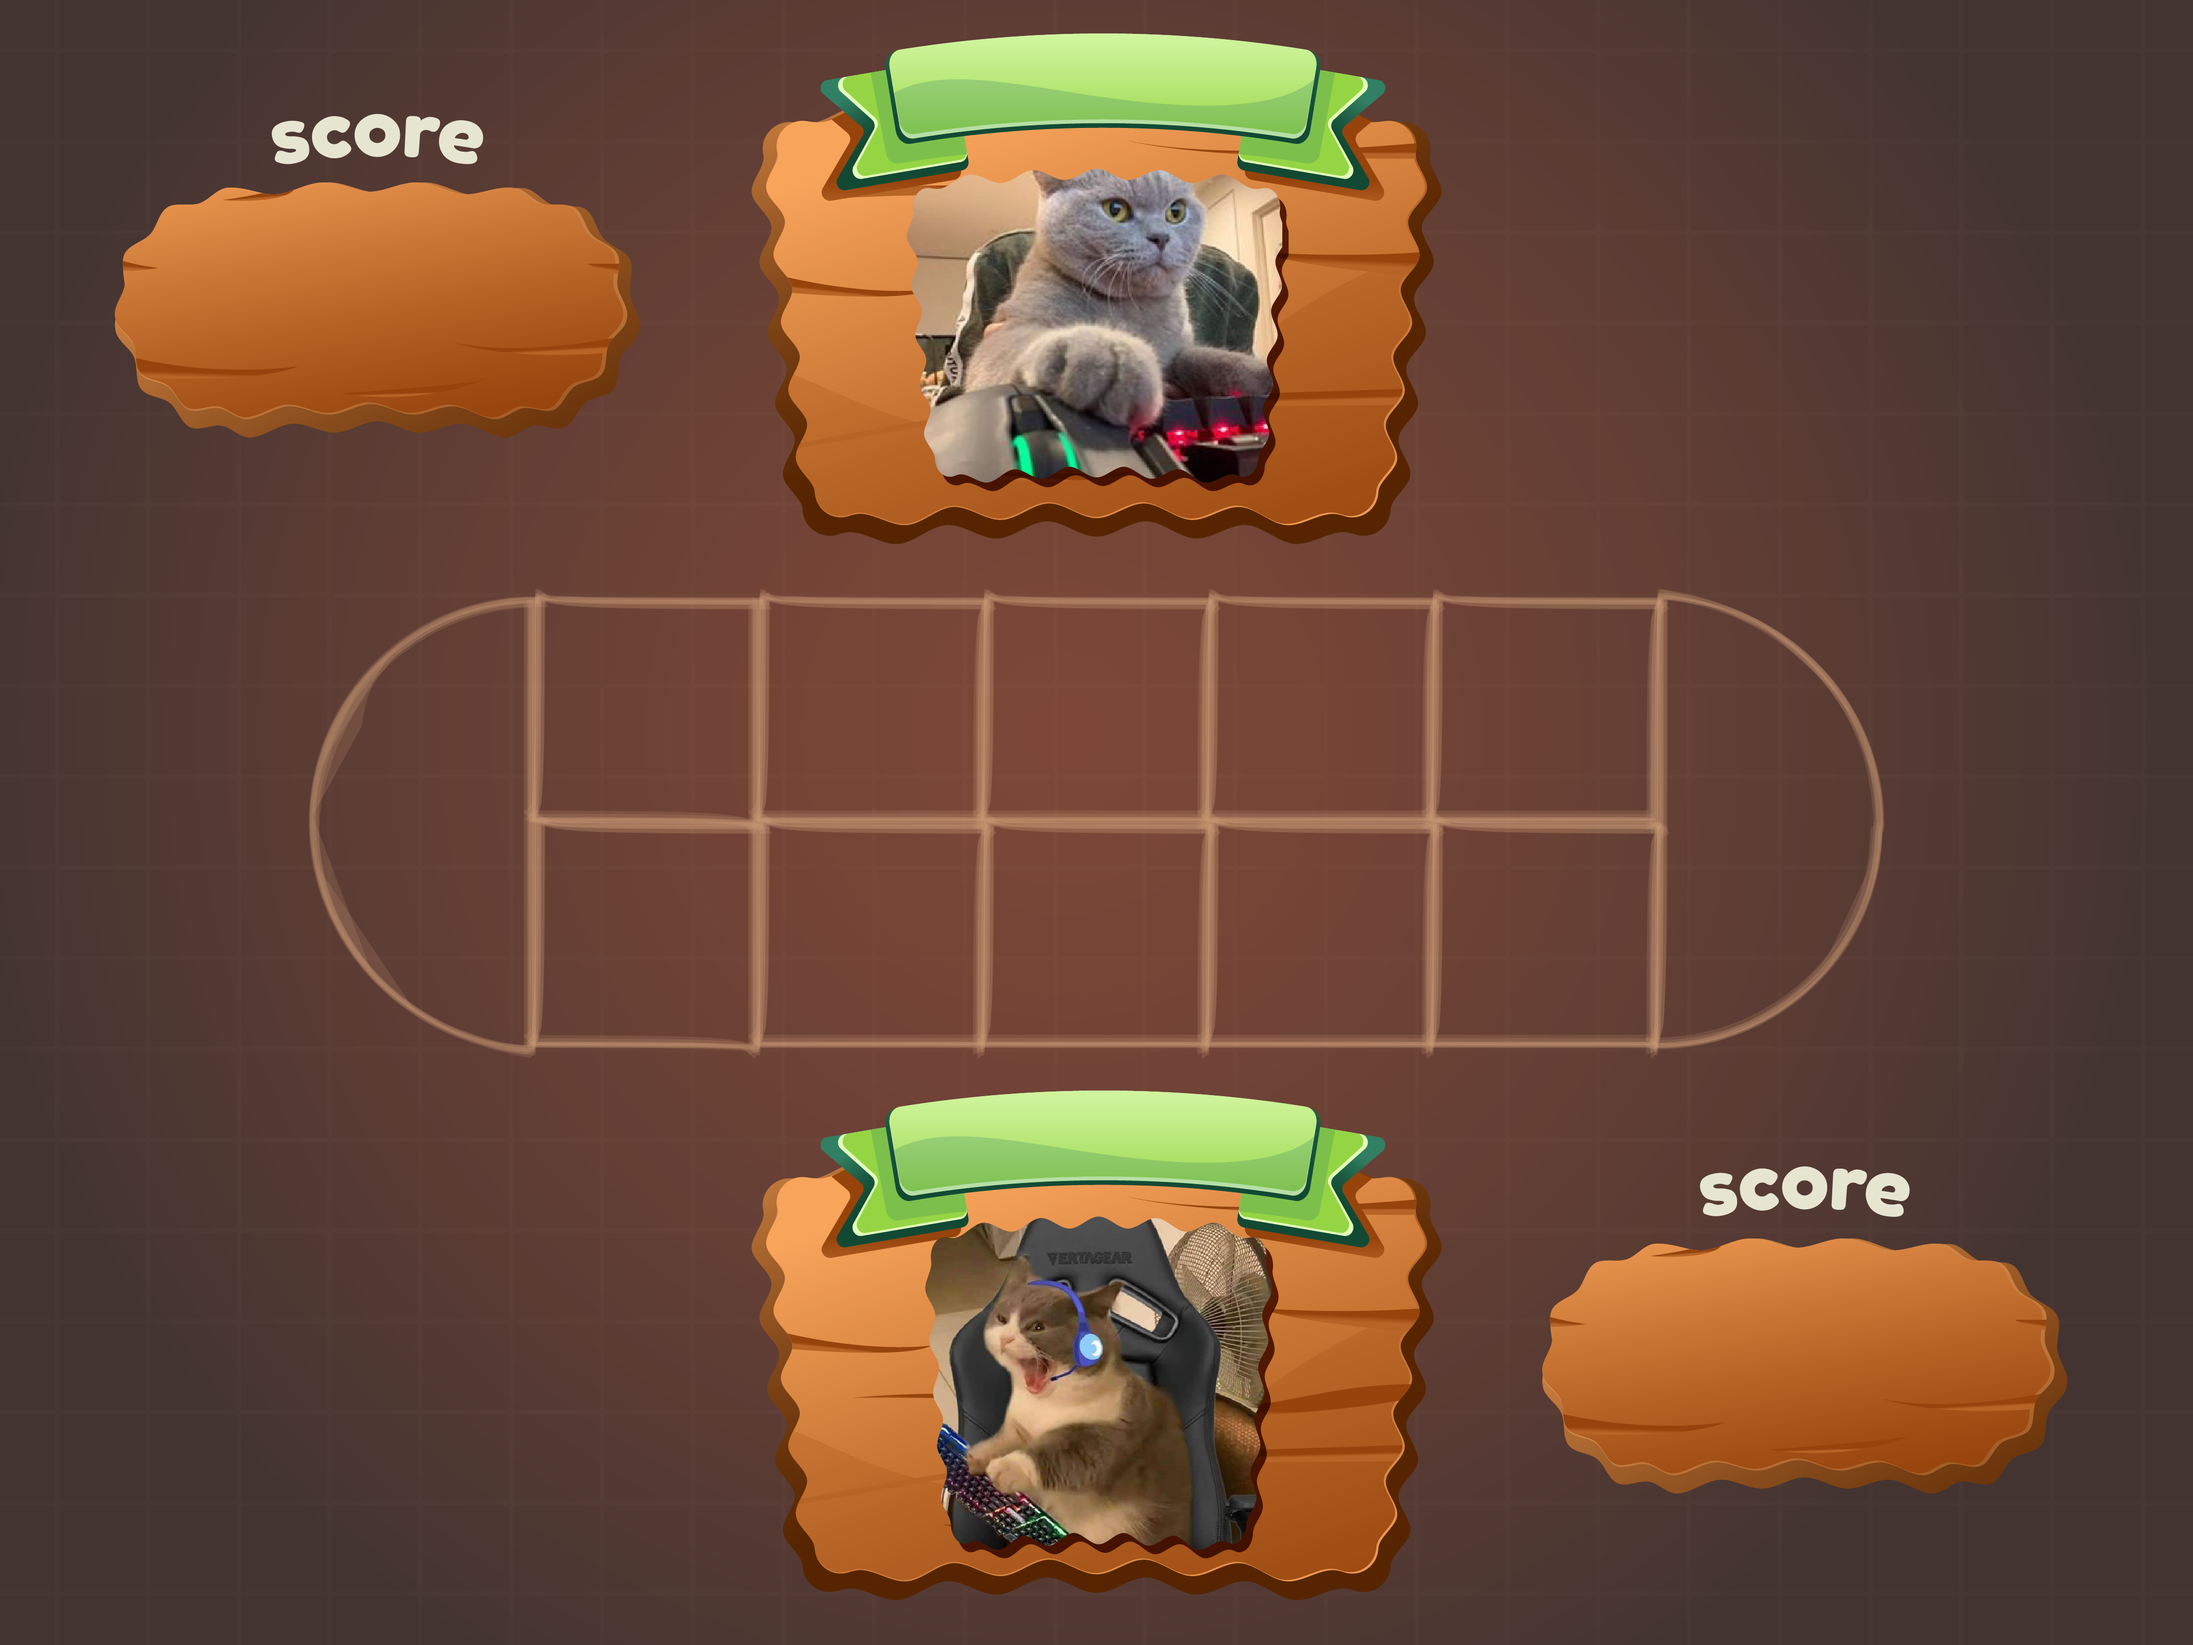
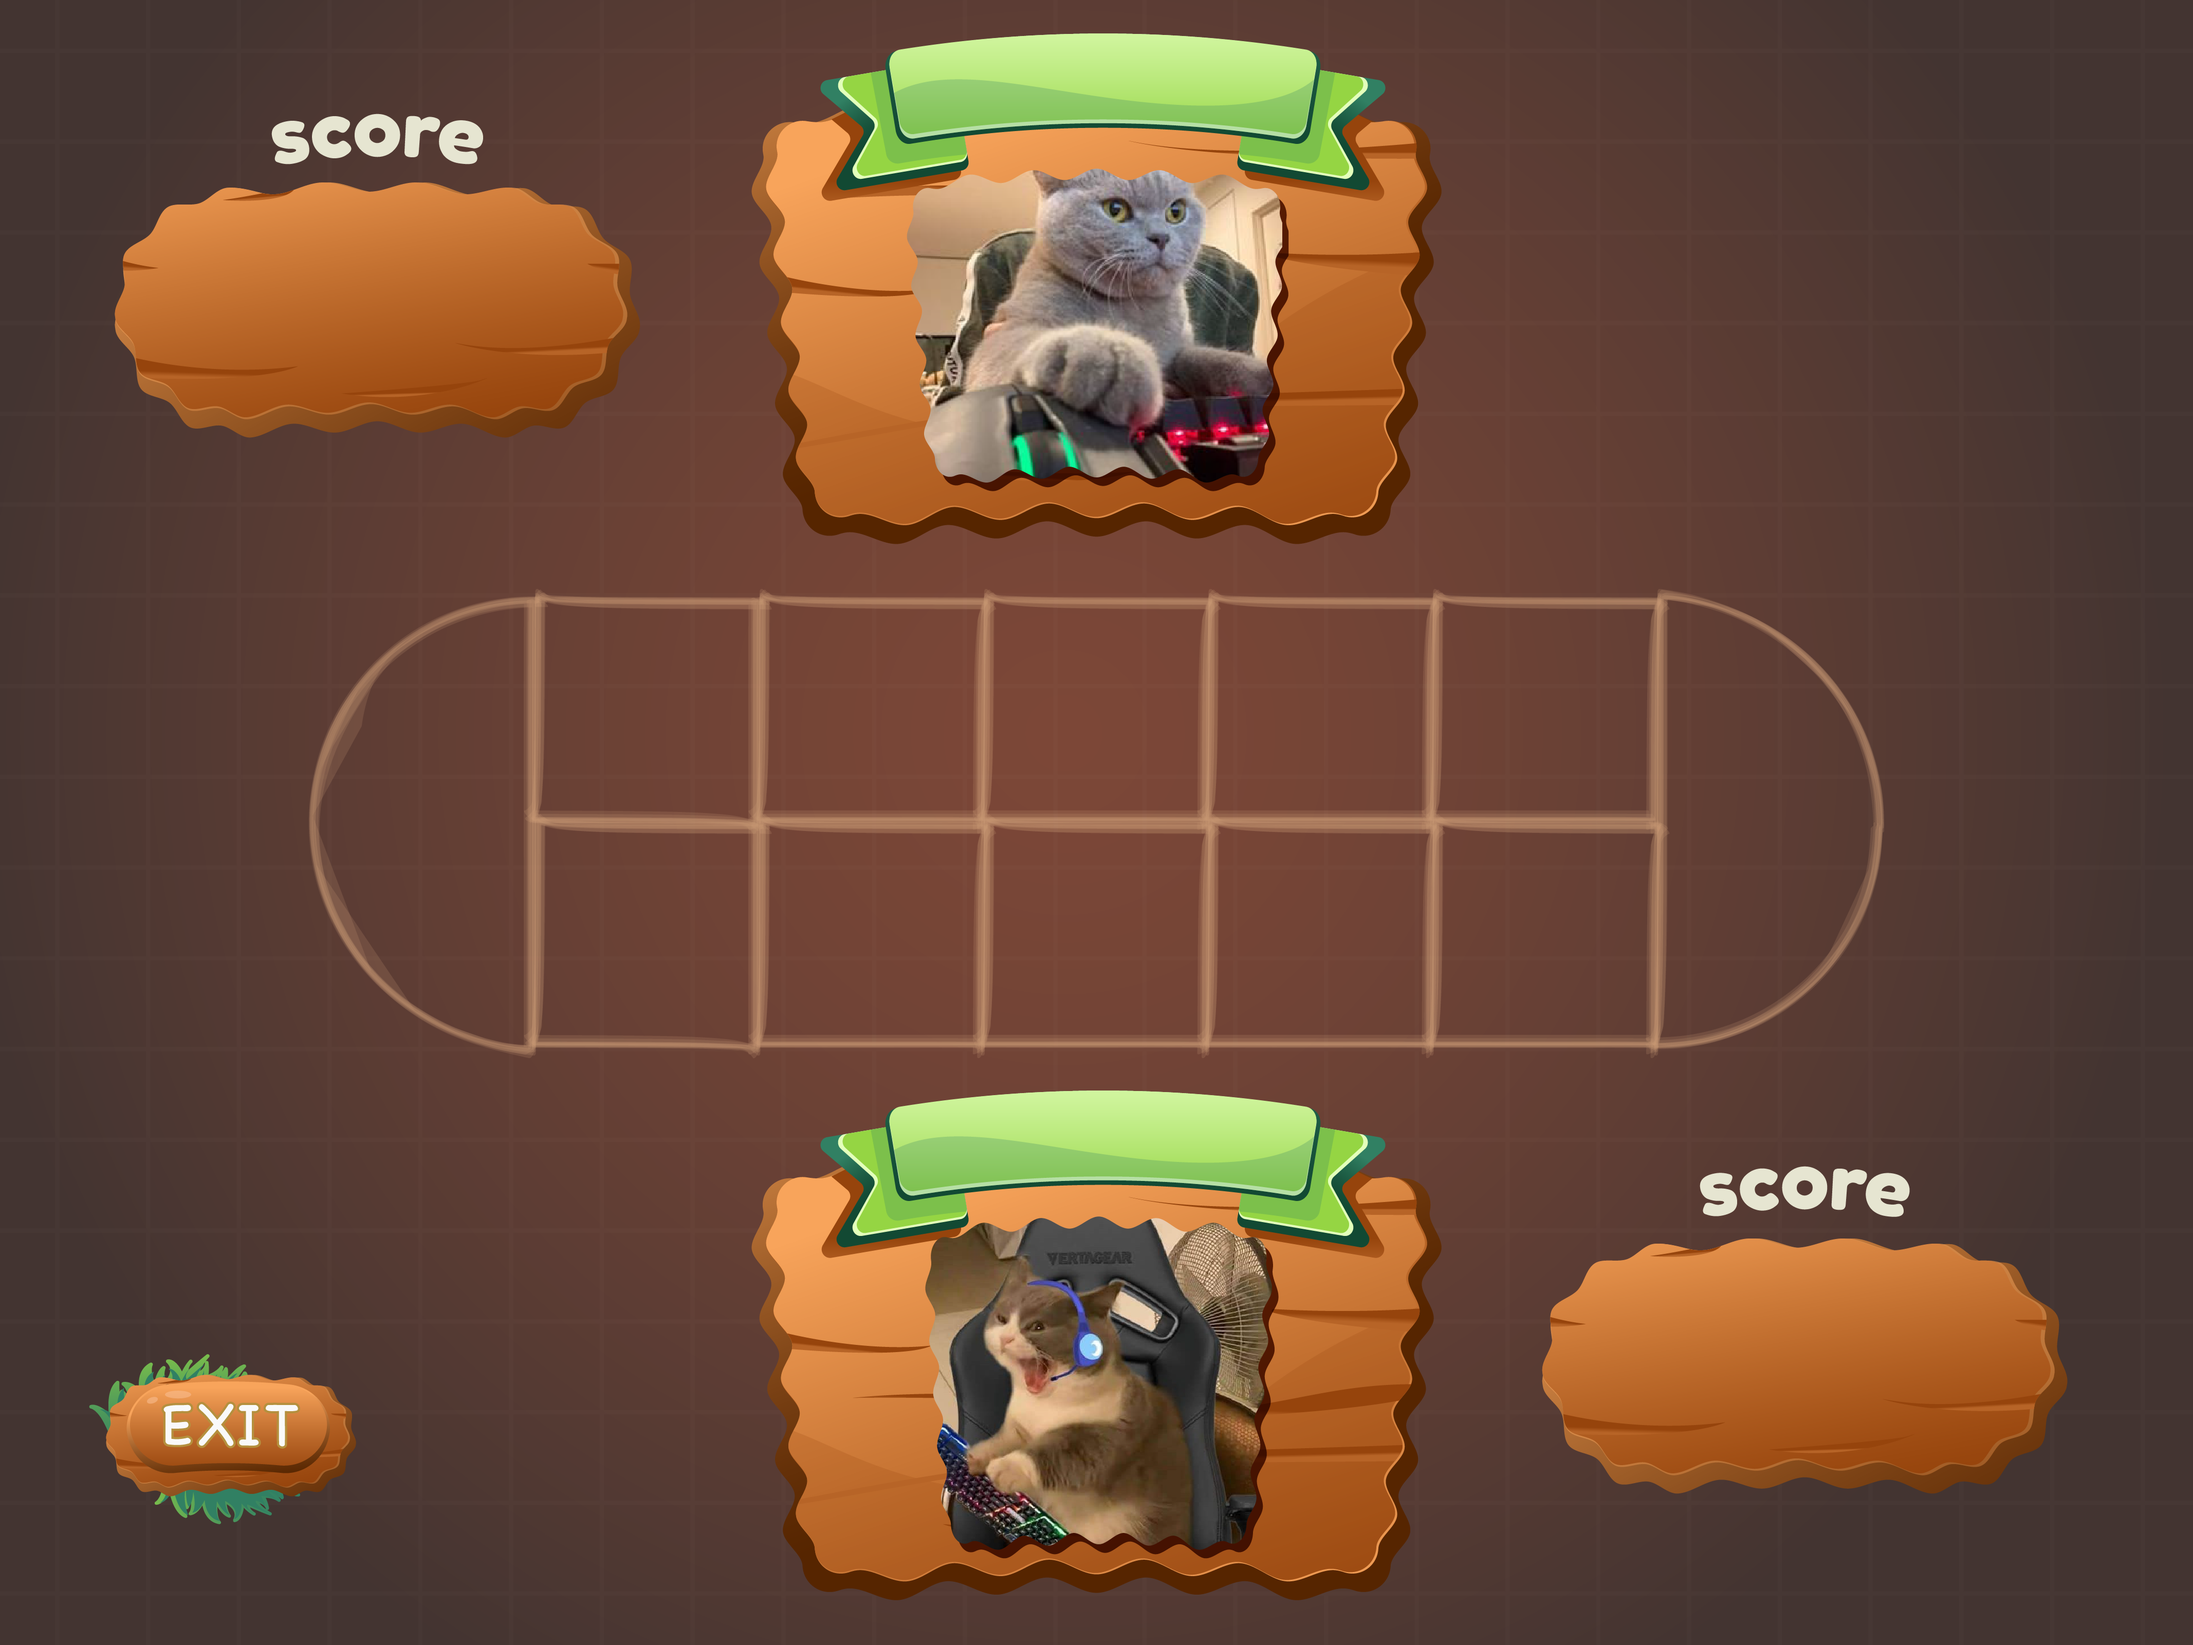
update play screen button and 'paws'

Changed region(s): [[0.0312, 0.8122, 0.1558, 0.9372]]

diff --git a/sourcecode/screen/controller/IntroScreenController.java b/sourcecode/screen/controller/IntroScreenController.java
@@ -6,12 +6,15 @@ import javafx.fxml.FXMLLoader;
 import javafx.scene.Node;
 import javafx.scene.Parent;
 import javafx.scene.Scene;
+import javafx.scene.control.Alert;
 import javafx.scene.control.Button;
+import javafx.scene.control.ButtonType;
 import javafx.stage.Stage;
 import sourcecode.board.Board;
 import sourcecode.player.Player;
 
 import java.io.IOException;
+import java.util.Optional;
 
 public class IntroScreenController {
     private final Board board;
@@ -56,8 +59,20 @@ public class IntroScreenController {
 
     @FXML
     void btnExitGameClicked(ActionEvent event) {
-        Stage stage = (Stage) btnExitGame.getScene().getWindow();
-        stage.close();
+        Alert alert = new Alert(Alert.AlertType.CONFIRMATION);
+        alert.setTitle("Exit Confirmation");
+        alert.setHeaderText("Exit Game");
+        alert.setContentText("Are you sure you want to exit?");
+        Optional<ButtonType> res = alert.showAndWait();
+        if(res.get() == ButtonType.OK) {
+            // quit game
+            Stage stage = (Stage) btnExitGame.getScene().getWindow();
+            stage.close();
+        } else {
+            // close dialog
+            alert.close();
+        }
+
     }
 
     @FXML
